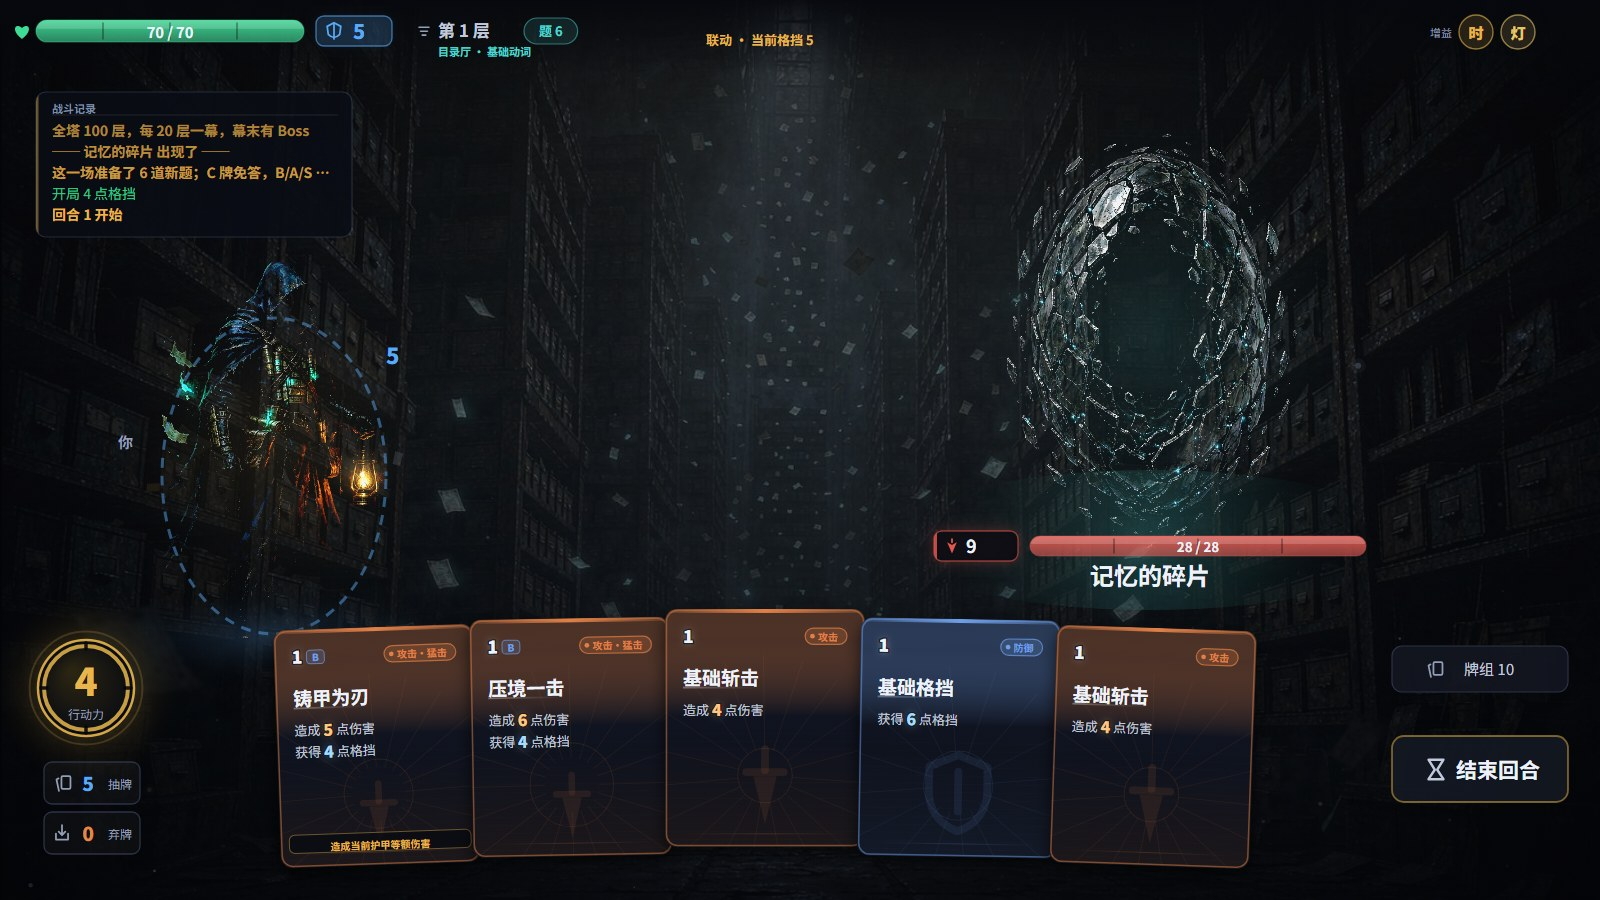
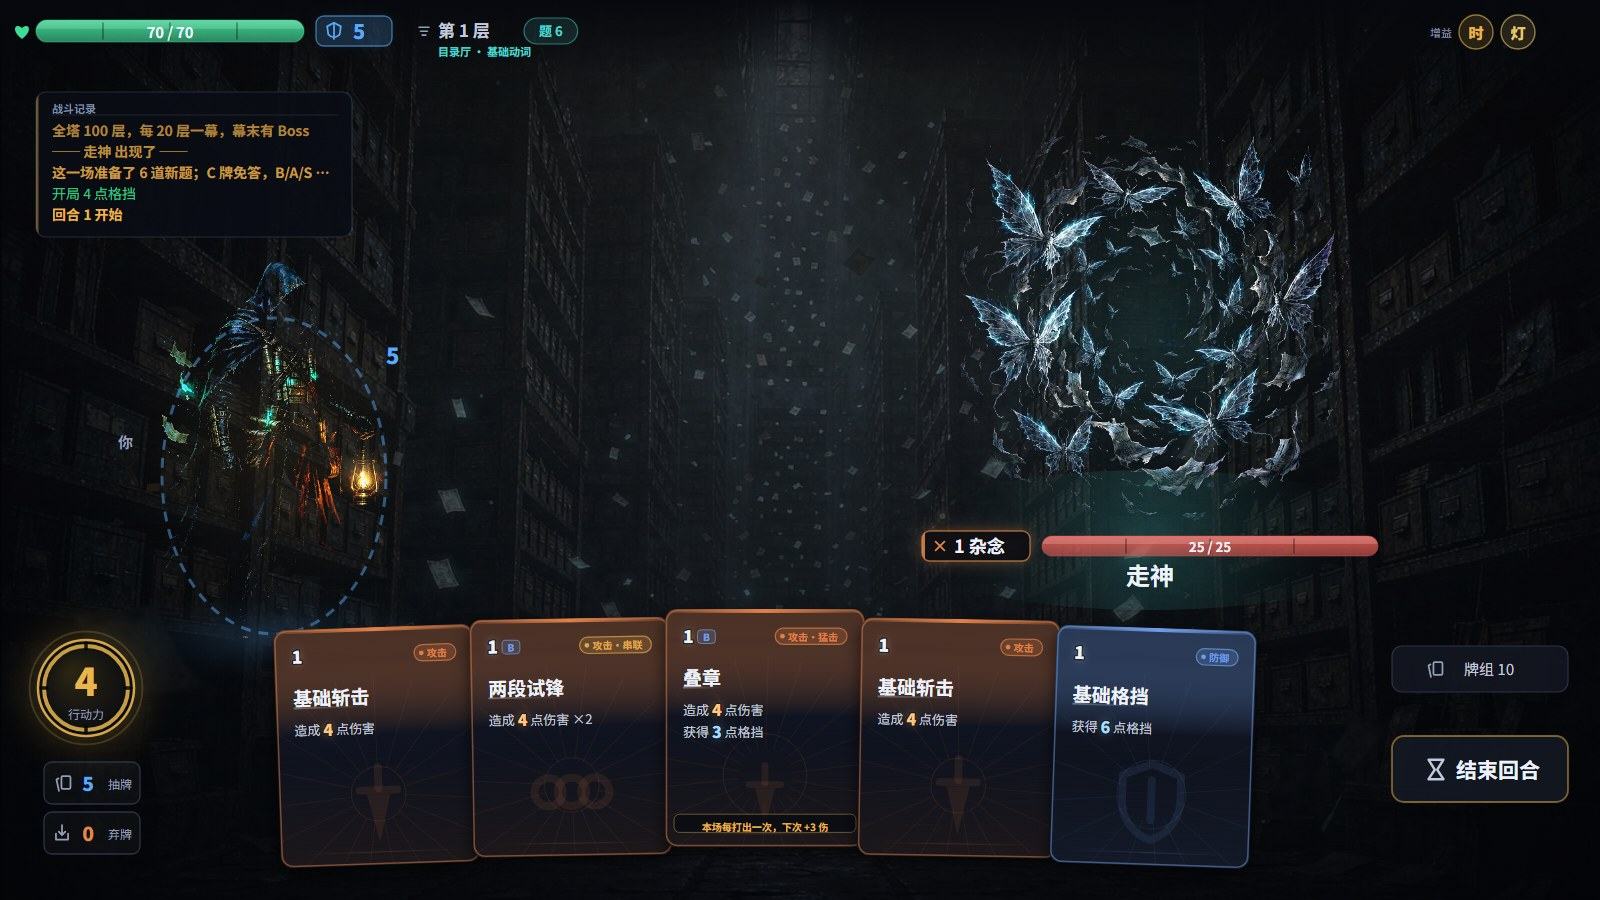
refactor(core): 课表与题量/题库解耦
课表改为每回合第一次打出基础牌补 1 点格挡；删掉 Rules.questions、syllabusQuestions/BlockCap 和 syllabusBlock(fresh)。题量只由牌组算，清空 qLeft 时课表仍生效。重拍 docs 实机图。

diff --git a/src/core/combat/play.ts b/src/core/combat/play.ts
@@ -11,7 +11,7 @@ import { recordAnswer } from '../library/stagemem';
 import { memOf, saveMem } from '../library/memory';
 import { shuffleOptions } from '../library/question';
 import { defOf, statOf } from '../cards/registry';
-import { applyCardBonus, clearOnceUsed, onceThisFight, rulesOf, syllabusBlock } from '../cards/powers';
+import { applyCardBonus, clearOnceUsed, onceThisFight, rulesOf, syllabusBasicBlock } from '../cards/powers';
 import { canPay, costNow, isXCost, refundOf } from '../cards/cost';
 import { cardGrade, gradeNeed, needsAsk } from '../cards/grade';
 import { cardKind } from '../cards/kinds';
@@ -62,8 +62,8 @@ export function startBattle(nd: MapNode) {
   // 本场要清的是免答计数和题池。答错不扣行动力、也不封牌：
   // 代价落在"本场新题少一道"上，新题用完后进入复用（见 combat/questions.ts）。
   G.charge = {};
-  // 课表的账按场清：每场最多补 2 点格挡（`syllabusBlock`）。
-  G.syllabusBlocks = 0;
+  // 课表的账按场清：`syllabusTurn` 记的是回合号，跨场不清会误判"这一回合已给过"。
+  G.syllabusTurn = 0;
   G.qFresh = false;
   // 联动的账按**场**清：本场打过几次、上一张留了什么，都不该带进下一场。
   G.cardPlays = {};
@@ -324,7 +324,7 @@ function thornsBack(hits: number[]) {
 
 export function answer(choice: number) {
   if (G.panel.k !== 'question' || G.busy) return;
-  const { idx, qid, q, view, fresh } = G.panel;
+  const { idx, qid, q, view } = G.panel;
   const id = G.hand[idx];
   if (!id) return;
   const card = defOf(id);
@@ -350,8 +350,6 @@ export function answer(choice: number) {
 
   let dmg = 0;
   let blkGain = 0;
-  /** 课表额外补的格挡。和 `blkGain` 分开，卡面数字仍然只算这张牌自己。 */
-  let powerBlk = 0;
   /** 这张牌自己会给出多少格挡（答错时用来区分"模式没给"和"这张牌本来就没有"） */
   let ownBlk = 0;
   let absorbed = 0;
@@ -384,15 +382,6 @@ export function answer(choice: number) {
     if (r.nextNote) apNote = join(apNote, `${r.nextNote}。`);
     if (xcost) apNote = join(apNote, `耗尽 ${spent} 点行动力，效果结算 ${repeat} 次。`);
     if (drawn) apNote = join(apNote, `专注：抽 ${drawn} 张。`);
-    // 课表：这一手问的是本场**新题**才补 1 点格挡，复用旧题不算。
-    // 只记 `powerBlk`、不并进 `blkGain` —— 后者是这张牌自己的格挡，
-    // 卡面和反馈面板读的是同一个数，混进增益就会变成两张皮。
-    powerBlk = syllabusBlock(fresh);
-    if (powerBlk) {
-      apNote = join(apNote,
-        `课表：这一道新题答对了，补 ${powerBlk} 点格挡`
-        + `（本场 ${G.syllabusBlocks}/${BAL.syllabusBlockCap}）。`);
-    }
     // 反伤在这张牌结算完之后收：先看见自己打了多少，再看见手上被割了一道。
     const back = thornsBack(hits);
     if (back) apNote = join(apNote, `反伤：你受到 ${back} 点。`);
@@ -646,7 +635,6 @@ export function answer(choice: number) {
       (right
         ? `，${shape}${absorbed ? `（${absorbed} 被挡）` : ''}` +
           (blkGain ? `，${blkGain} 格挡` : '') +
-          (powerBlk ? `，课表 +${powerBlk} 格挡` : '') +
           (heal ? `，回 ${heal}` : '') +
           (drawn ? `，抽 ${drawn}` : '')
         : `，效果作废${blkGain ? `，${blkGain} 格挡`
@@ -674,8 +662,6 @@ export function answer(choice: number) {
   // 答错时格挡补偿稍晚一点出场：先让玩家看见"焰灭了"，再看见"但还是挡住了 3 点"。
   // 两个数字同时冒出来，会读成"答错也有收益"，把失败感冲掉。
   if (blkGain) setTimeout(() => emit({ t: 'blk', n: blkGain }), base + (right ? 60 : 220));
-  // 课表的格挡来自增益而不是这张牌，晚一拍单独飘，玩家才知道是它给的。
-  if (powerBlk) setTimeout(() => emit({ t: 'blk', n: powerBlk }), base + 110);
   if (heal) setTimeout(() => emit({ t: 'heal', n: heal }), base + 60);
 
   G.panel = {
@@ -707,6 +693,8 @@ export function playBasic(idx: number) {
 
   const spent = costNow(card);
   const r = strikeWith(id, 1);
+  // 课表只认基础牌：不答题也能吃到，和题目池、题库大小都没有关系。
+  const syllabusBlk = syllabusBasicBlock();
   thornsBack(r.out.hits);
   spendAp(spent);
 
@@ -717,6 +705,7 @@ export function playBasic(idx: number) {
   const shape = r.out.hits.length > 1 ? `${r.out.hits.join('+')} 伤害` : `${r.dmg} 伤害`;
   log(
     `「${card.name}」${r.dmg ? shape : ''}${r.blk ? `${r.dmg ? '，' : ''}${r.blk} 格挡` : ''}` +
+      `${syllabusBlk ? `${r.dmg || r.blk ? '，' : ''}课表 +${syllabusBlk} 格挡` : ''}` +
       `（基础牌，不答题）${r.nextNote ? `　·　${r.nextNote}` : ''}`,
     '',
   );
@@ -728,7 +717,7 @@ export function playBasic(idx: number) {
       if (i === 0) fire(); else setTimeout(fire, i * 150);
     });
   }
-  if (r.blk) setTimeout(() => emit({ t: 'blk', n: r.blk }), 60);
+  if (r.blk + syllabusBlk) setTimeout(() => emit({ t: 'blk', n: r.blk + syllabusBlk }), 60);
 
   G.busy = true;
   setTimeout(() => {

diff --git a/src/core/cards/powers.ts b/src/core/cards/powers.ts
@@ -62,8 +62,8 @@ export interface Rules {
   startBlock: number;
   /** 答对之后最多补抽几张（双面镜），也用作每回合的补抽上限 */
   answerDraw: number;
-  /** 这一场的新题数加成（课表） */
-  questions: number;
+  /** 每回合第一次打出基础牌补几点格挡（课表）。不读题目池 */
+  basicBlock: number;
   /** 奖励屏给几个选项（便签）。`BAL.rewardPicks` 是底数 */
   rewardPicks: number;
   /** 复习点的回复比例（修书胶）。`BAL.restPct` 是底数 */
@@ -121,7 +121,7 @@ export function rulesOf(ctx: RulesCtx = {}): Rules {
         + (hard && hasPower('corner') ? BAL.cornerBlock : 0)
       : 0,
     answerDraw: hasPower('mirrorcard') ? BAL.answerDrawCap : 0,
-    questions: hasPower('syllabus') ? BAL.syllabusQuestions : 0,
+    basicBlock: hasPower('syllabus') ? BAL.syllabusBlock : 0,
     rewardPicks: BAL.rewardPicks + (hasPower('sticky') ? BAL.stickyChoice : 0),
     restPct: BAL.restPct + (hasPower('mend') ? BAL.mendRest : 0),
     atkBonus: hasPower('press') ? BAL.pressAtk : 0,
@@ -155,22 +155,20 @@ export function applyCardBonus(out: EffOut, R: Rules = rulesOf()): EffOut {
 }
 
 /**
- * 课表：答对一道**本场新题**，补 1 点格挡，每场至多 `BAL.syllabusBlockCap` 点。
+ * 课表：每回合第一次打出基础牌，补 `rulesOf().basicBlock` 点格挡。
  *
- * 为什么读 `fresh` 而不是卡面：复用问过的题不给格挡 —— 否则这张牌会退化成
- * "只要答对就有格挡"，跟"课表 = 这一场多学两道新东西"这件事没有关系。
- * 返回实际补了多少，调用方据此写日志和飘字。
+ * 这条效果**不读题目池**：不读新题/复用，也不改本场题量。题目只是嵌在
+ * 知识卡上的一层；基础牌不答题也能打，所以课表在没有题、题库很小、
+ * 或者玩家完全不答题的局里都照常生效。
  *
- * 它不并进 `blkGain`：那个数是**这张牌自己的**格挡，反馈面板和卡面读的是
- * 同一个值。把增益塞进去，卡面写 6 实际 7，就破了"卡面写的数 = 打出来的数"。
+ * 用 `G.syllabusTurn` 记"这一回合已经给过"，值就是 `G.turn`，换回合直接比较；
+ * `startBattle` 清零，避免上一场的回合号碰巧相同。
  */
-export function syllabusBlock(fresh: boolean): number {
-  if (!fresh || !hasPower('syllabus')) return 0;
-  const cap = BAL.syllabusBlockCap;
-  if (G.syllabusBlocks >= cap) return 0;
-  const n = Math.min(BAL.syllabusBlock, cap - G.syllabusBlocks);
+export function syllabusBasicBlock(): number {
+  const n = rulesOf().basicBlock;
+  if (!n || G.syllabusTurn === G.turn) return 0;
+  G.syllabusTurn = G.turn;
   grantBlock(n);
-  G.syllabusBlocks += n;
   return n;
 }
 

diff --git a/tools/stagecheck.ts b/tools/stagecheck.ts
@@ -911,43 +911,30 @@ function missGain(eff: string) {
   const unglued = missAndCount([]);
   ok(unglued.after === unglued.before - 1, `没有胶水壶时会少一张（${unglued.before} → ${unglued.after}）`);
 
-  // 课表：新题答对才补格挡；复用不算，每场至多 2 点。
-  // 用洞察牌当样本：它的 `blk` 是 0，所以 `G.block` 的增量只可能是课表给的。
+  // 课表：每回合第一次打出基础牌补 1 点格挡；不读题目池。
+  // 把 `qLeft` 清空也不影响它 —— 这正是"卡牌机制和题目解耦"的回归点。
   {
-    const pierce = PACK.cards.find((c) => c.kind === 'knowledge' && c.eff === 'pierce' && c.cost === 1)!;
     battle(1, 'examiner');
     G.powers = ['syllabus'];
-    const foe = G.enemy!;
-    foe.hp = 999;
-    foe.block = 0;
+    G.enemy!.hp = 999;
     G.ap = 99;
-    G.charge = {};
-    G.syllabusBlocks = 0;
     G.block = 0;
-    const gains: number[] = [];
-    for (let i = 0; i < 3; i++) {
-      G.charge = {};
-      G.hand[0] = pierce.id;
-      const before = G.block;
-      askCard(0);
-      if (panelKind() !== 'question') throw new Error('课表测试：没弹题');
-      answer(panelAns().answer);
-      gains.push(G.block - before);
-      if (panelKind() === 'feedback') dismissFeedback();
-    }
-    ok(gains.join(',') === '1,1,0',
-      `课表：新题答对补 1 点，每场至多 2 点（本场 ${gains.join('+')}）`);
-
-    // 复用路径：清空本场新题池，下一手问的是本章旧题，课表不该再补。
     G.qLeft = [];
-    G.charge = {};
-    G.hand[0] = pierce.id;
+    G.hand[0] = 'base:strike';
+    playBasic(0);
+    ok(G.block === 1, `课表：第一张基础牌补 1 点（${G.block}）`);
+
+    G.hand[0] = 'base:strike';
     G.block = 0;
-    askCard(0);
-    if (panelKind() !== 'question') throw new Error('课表复用测试：没弹题');
-    answer(panelAns().answer);
-    ok(G.block === 0, '课表：复用的旧题不补格挡');
-    if (panelKind() === 'feedback') dismissFeedback();
+    playBasic(0);
+    ok(G.block === 0, '课表：同一回合第二张基础牌不再补');
+
+    G.turn += 1; // `startTurn` 自己不加回合号，正常流程由 `endTurn` 推进
+    startTurn();
+    G.hand[0] = 'base:strike';
+    G.block = 0;
+    playBasic(0);
+    ok(G.block === 1, '课表：下一回合重新生效');
   }
 
   // 许愿条：整局一次，第二次真的会死。

diff --git a/src/core/model/data.ts b/src/core/model/data.ts
@@ -376,9 +376,10 @@ export const POWERS: PowerDef[] = [
   {
     id: 'syllabus', icon: '课', name: '课表', color: '#9aa7d8',
     scope: 'always',
-    card: '每场多 2 道新题；答对新题补 1 点格挡，每场至多 2 点',
-    desc: '题量按牌组算，它在这一场里额外多塞两道。只有答对新题才补格挡：'
-      + '重复问旧题不算 —— 它奖励的是"真的在读新东西"，而不是"点开牌就有收益"。',
+    card: '每回合第一次打出基础牌，获得 1 点格挡',
+    desc: '它只认基础牌，不认题：不答题、只打基础牌也能吃到。'
+      + '课表排的是这一回合先打哪张基础牌，而不是这一场要被问多少道题 ——'
+      + '题库换掉、题目用完，它都照常生效。',
   },
   {
     id: 'sticky', icon: '贴', name: '便签', color: '#e6d05a',
@@ -830,10 +831,8 @@ export const BAL = {
   cornerBlock: 4,
   /** 修书胶：复习点回复量**额外**加的生命百分比（叠在 `restPct` 上） */
   mendRest: 0.18,
-  /** 课表：每场战斗额外预抽几道新题 */
-  syllabusQuestions: 2,
-  /** 课表：答对一道本场新题补几点格挡，以及每场最多补几点 */
-  syllabusBlock: 1, syllabusBlockCap: 2,
+  /** 课表：每回合第一次打出基础牌补几点格挡 */
+  syllabusBlock: 1,
   /** 便签：战后选卡多给几个选项 */
   stickyChoice: 1,
   /* ── 第三批（18 → 40）的量 ─────────────────────────────────────

diff --git a/src/core/combat/questions.ts b/src/core/combat/questions.ts
@@ -1,7 +1,6 @@
 import type { Question } from '../model/types';
 import { G } from '../infra/state';
 import { shuffle } from '../infra/util';
-import { rulesOf } from '../cards/powers';
 import { battleQuestionCount } from '../cards/grade';
 import { stagePool } from '../library/stage';
 
@@ -39,11 +38,9 @@ function eligible(list: Question[]): Question[] {
  */
 export function drawBattleQuestions() {
   const list = stagePool();
-  // 课表加的是**这一场的题量**（`R.questions`），而不是"答错不消耗" ——
-  // 后者等于把答错的代价删掉，那是规则层面的改动，不该由一个掉落物来做。
-  // 多出来的题要兑现成格挡，靠 `takeQuestion` 标出"这一道是不是新的"，
-  // 见 `syllabusBlock`。
-  const want = battleQuestionCount(G.deck) + rulesOf().questions;
+  // 题量只由牌组算。课表不再改题量，也不再读新题/复用 ——
+  // 它只认基础牌，避免卡牌机制和题库大小绑死。
+  const want = battleQuestionCount(G.deck);
   // 只放"还没到本局 3 次上限"的新题。凑不够 `want` 也不拿已满的题来凑数：
   // 那些题 `takeQuestion` 会跳过，放进 `qLeft` 只会让顶栏读数虚高。
   // 新题用完由 `takeQuestion` 进入复用，见那里。

diff --git a/src/core/model/types.ts b/src/core/model/types.ts
@@ -748,10 +748,10 @@ export interface GameState {
    */
   qFresh: boolean;
   /**
-   * 课表这一场已经补过多少点格挡。`startBattle` 清零；
-   * 上限是 `BAL.syllabusBlockCap` —— 一局五十多场，不封顶就是一条额外血条。
+   * 课表这一回合是否已经给过基础牌格挡。值是 `G.turn`，不是布尔：
+   * 换回合直接比数字，不用额外清账；`startBattle` 归零，避免跨场沿用。
    */
-  syllabusBlocks: number;
+  syllabusTurn: number;
   /** 本局靠"答对"额外抽到的张数。只给结算页用，不参与任何结算 */
   answerDraws: number;
   /** 本回合靠答对抽了几张，受 `BAL.answerDrawCap` 限制，`startTurn` 清零 */

diff --git a/src/core/journey/save.ts b/src/core/journey/save.ts
@@ -164,7 +164,7 @@ export function resumeRun(): boolean {
     ap: BAL.baseAp, apMax: BAL.baseAp, turn: 1, enemy: null,
     draw: [], discard: [], hand: [], powers: s.powers,
     topicWrong: s.topicWrong, qPicked: {}, qLeft: [], charge: {}, answers: [],
-    answerDraws: s.answerDraws, qFresh: false, syllabusBlocks: 0, onceUsed: {},
+    answerDraws: s.answerDraws, qFresh: false, syllabusTurn: 0, onceUsed: {},
     onceStage: usedTable(s.onceStage),
     onceRun: usedTable(s.onceRun),
     carryBlock: 0, upGrade: s.upGrade,

diff --git a/src/core/journey/run.ts b/src/core/journey/run.ts
@@ -49,7 +49,7 @@ export function startRun(boon: PowerId | null = null) {
     ap: BAL.baseAp, apMax: BAL.baseAp, turn: 1, enemy: null,
     powers: boon ? [boon] : [], qPicked: {}, qLeft: [], charge: {}, answers: [],
     topicWrong: {},
-    answerDraws: 0, qFresh: false, syllabusBlocks: 0,
+    answerDraws: 0, qFresh: false, syllabusTurn: 0,
     onceUsed: {},
     apDown: 0, drawCut: 0, carryBlock: 0, upGrade: 0,
     runOk: 0, runBad: 0, floors: 0,

diff --git a/src/core/infra/state.ts b/src/core/infra/state.ts
@@ -15,7 +15,7 @@ export const G: GameState = {
   map: [], pos: null, node: null, seen: {},
   charge: {}, qLeft: [], qPicked: {}, answers: [],
   topicWrong: {}, okThisTurn: 0, topOkTopic: null,
-  markerRefund: 0, qFresh: false, syllabusBlocks: 0,
+  markerRefund: 0, qFresh: false, syllabusTurn: 0,
   onceUsed: {}, onceStage: {}, onceRun: {},
   carryBlock: 0, upGrade: 0,
   answerDraws: 0, answerDrawsThisTurn: 0, missDrawsThisTurn: 0,

diff --git a/CHANGELOG.md b/CHANGELOG.md
@@ -2,6 +2,18 @@
 
 ## 未发布
 
+### 课表：彻底和题量 / 题库解耦
+
+课表不再“每场多 2 道新题”，也不再要求“答对新题”。题目只是嵌在知识卡上的一层，
+题库随时可换、可以不答题；课表改成只认基础牌：
+
+- 卡面：**每回合第一次打出基础牌，获得 1 点格挡**；
+- 删掉 `Rules.questions`、`BAL.syllabusQuestions`、`BAL.syllabusBlockCap`；
+- 删掉 `syllabusBlock(fresh)`，换成 `syllabusBasicBlock()`，只比较 `G.turn`；
+- `questions.ts` 的题量只由牌组算，不再读任何能力牌；
+- `stagecheck` 的回归点改成：清空 `qLeft`、只打基础牌，课表仍然生效；
+  同一回合第二张基础牌不再补，下一回合重新生效。
+
 ### 答对返还 1 行动力：从全局规则变成能力牌「借书证」
 
 `BAL.refund` 不再是所有人开局就吃的规则。现在只有拿到 `librarycard`（借书证）
